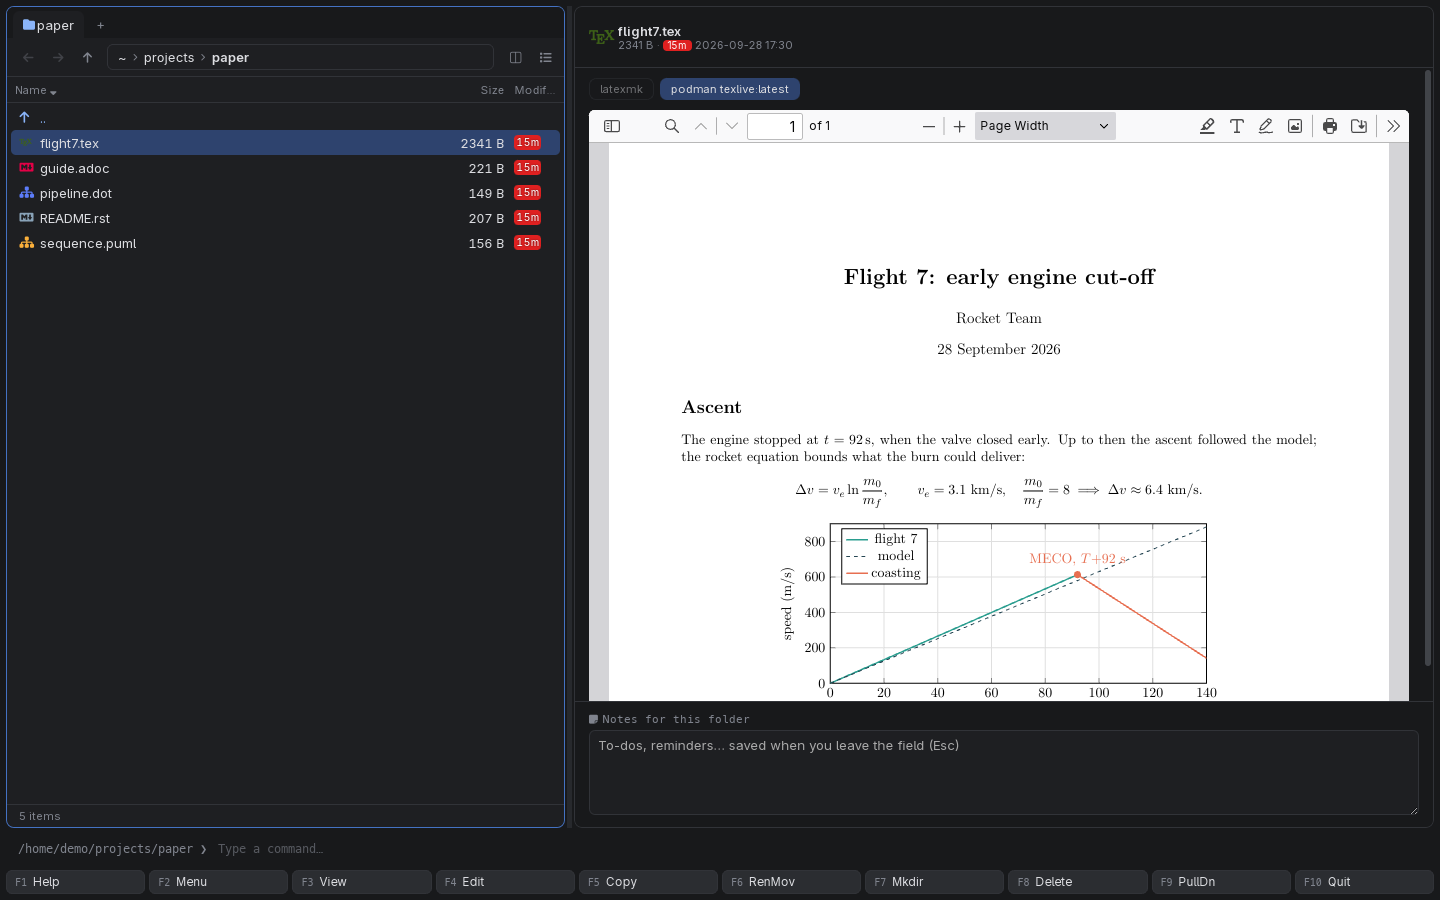
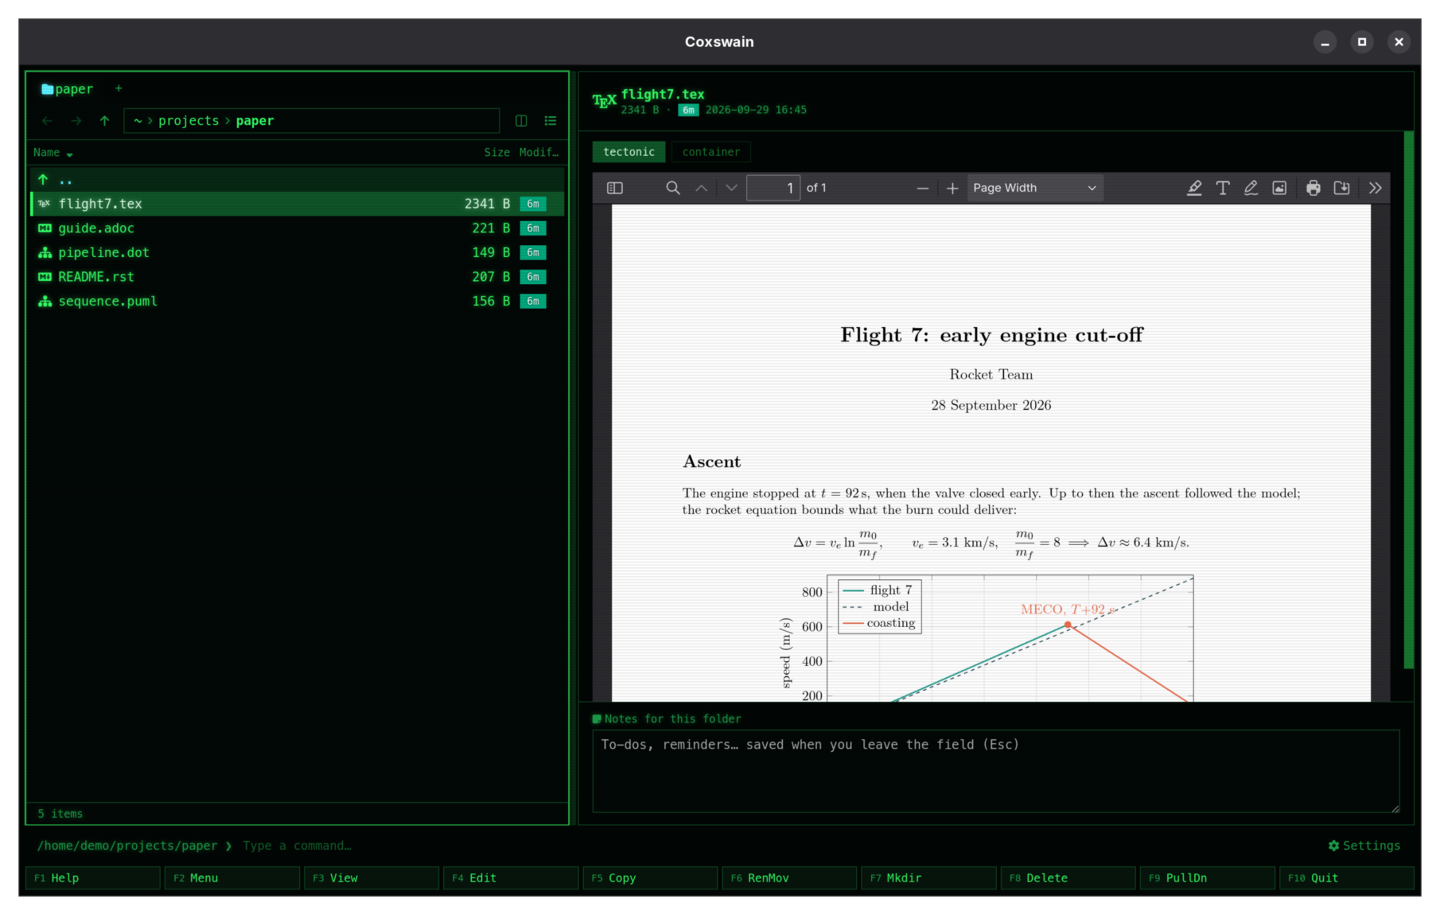
LaTeX and tool previews retaken in Cyber

diff --git a/README.md b/README.md
@@ -63,8 +63,9 @@ spreadsheet, a Word document and a font.*
 ![The preview pane showing a calendar, a git diff, a log file and an EPUB book](docs/screenshots/gui-previews-more.png)
 *A calendar, the git diff of a changed file, a log colored by level, and an EPUB book.*
 
-![A LaTeX document with a pgfplots chart and a TikZ diagram, built in a container and shown in the preview](docs/screenshots/gui-latex.png)
-*A LaTeX document, built with the texlive image in podman; the buttons pick the engine.
+![A LaTeX document with a pgfplots chart, built with tectonic and shown in the preview](docs/screenshots/gui-latex.png)
+*A LaTeX document, built with tectonic; the buttons pick the engine, an installed program or a
+container.
 Multi-file projects build from any of their files: Coxswain finds the main document
 (`% !TEX root`), the engine (`% !TEX program`) and the project folder, like a LaTeX editor.*
 

diff --git a/docs/previews.md b/docs/previews.md
@@ -10,7 +10,7 @@ else `$PAGER`, else `less`).
 ![A YAML tree, a SQLite database, a certificate and an e-mail](screenshots/gui-previews-data.png)
 ![A calendar, a git diff, a log file and an EPUB book](screenshots/gui-previews-more.png)
 ![A PlantUML sequence diagram, a Graphviz graph and an AsciiDoc guide](screenshots/gui-previews-tools.png)
-![A LaTeX document built in a container and shown in the preview pane](screenshots/gui-latex.png)
+![A LaTeX document built with tectonic and shown in the preview pane](screenshots/gui-latex.png)
 
 ## Switches
 
